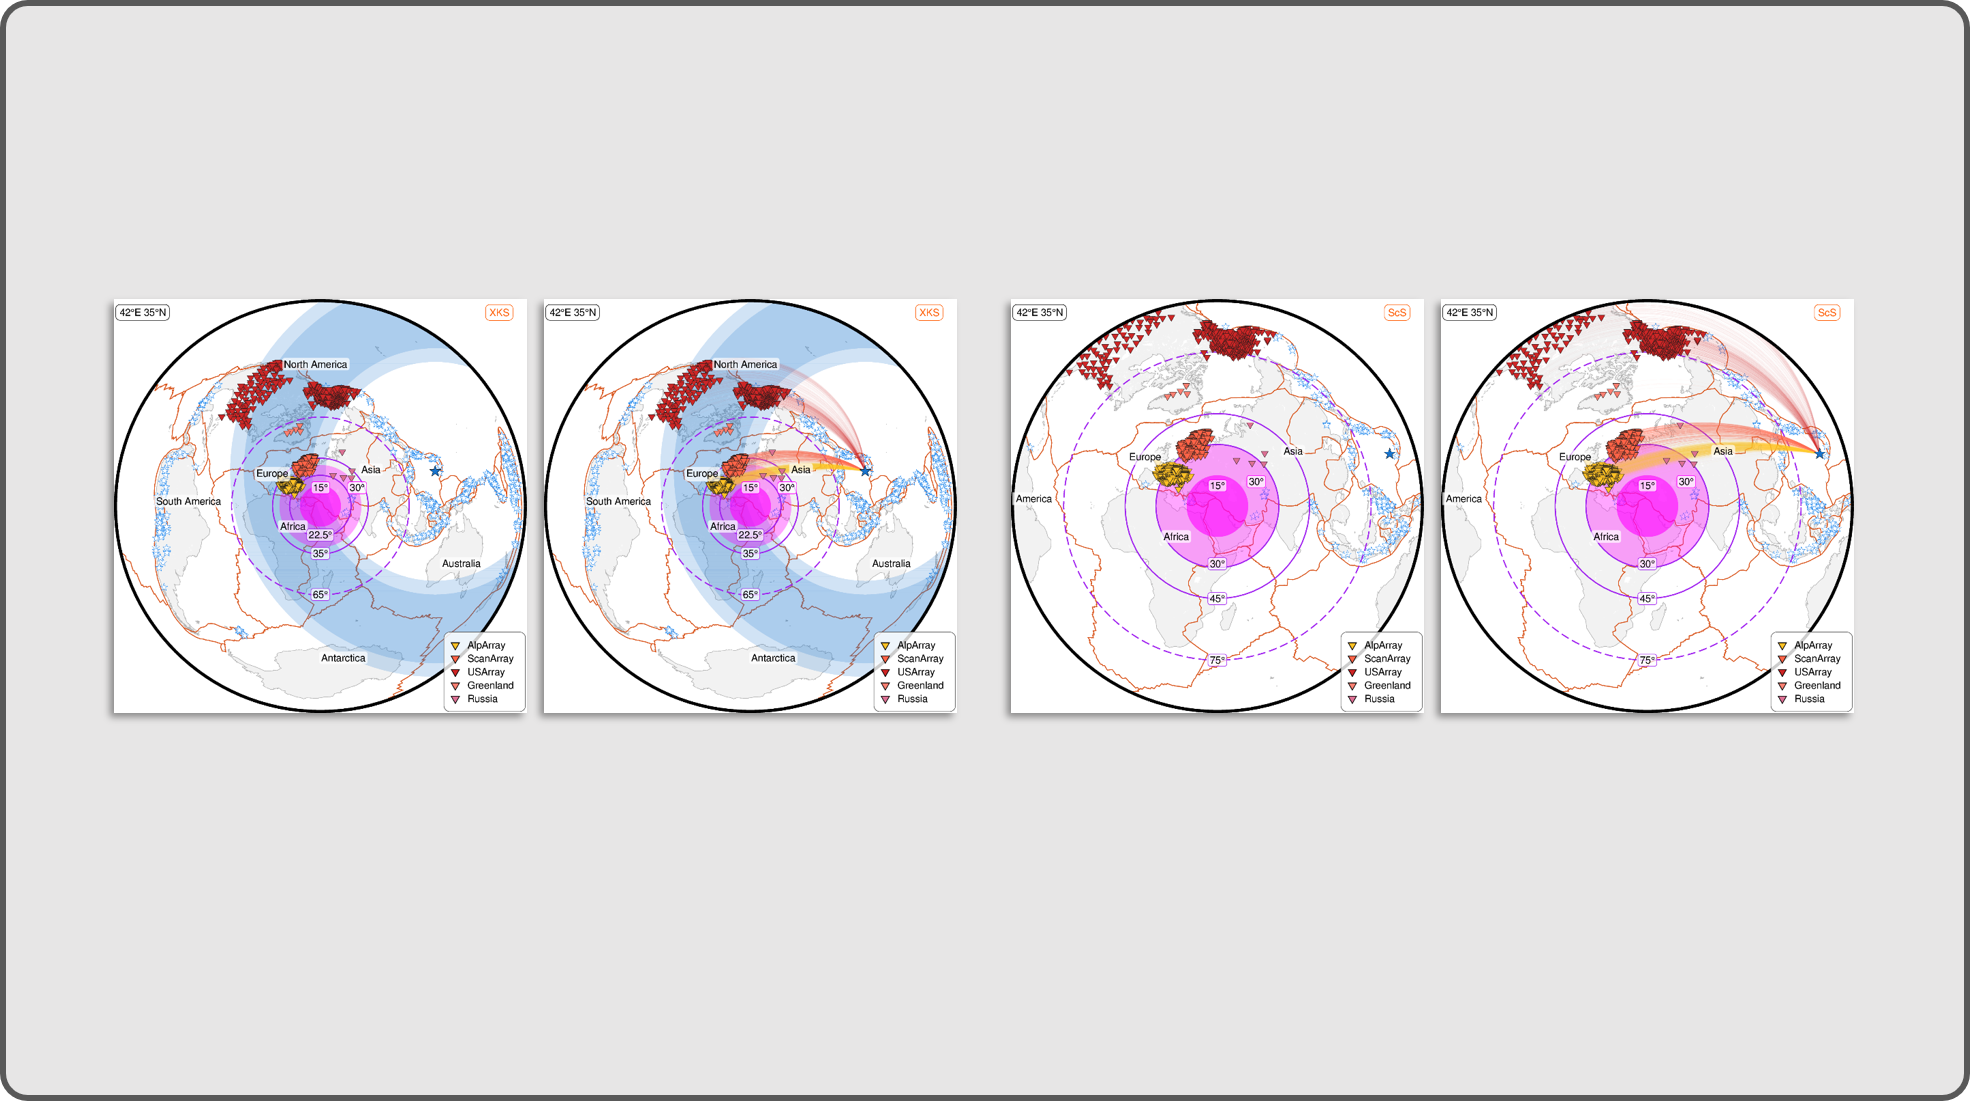
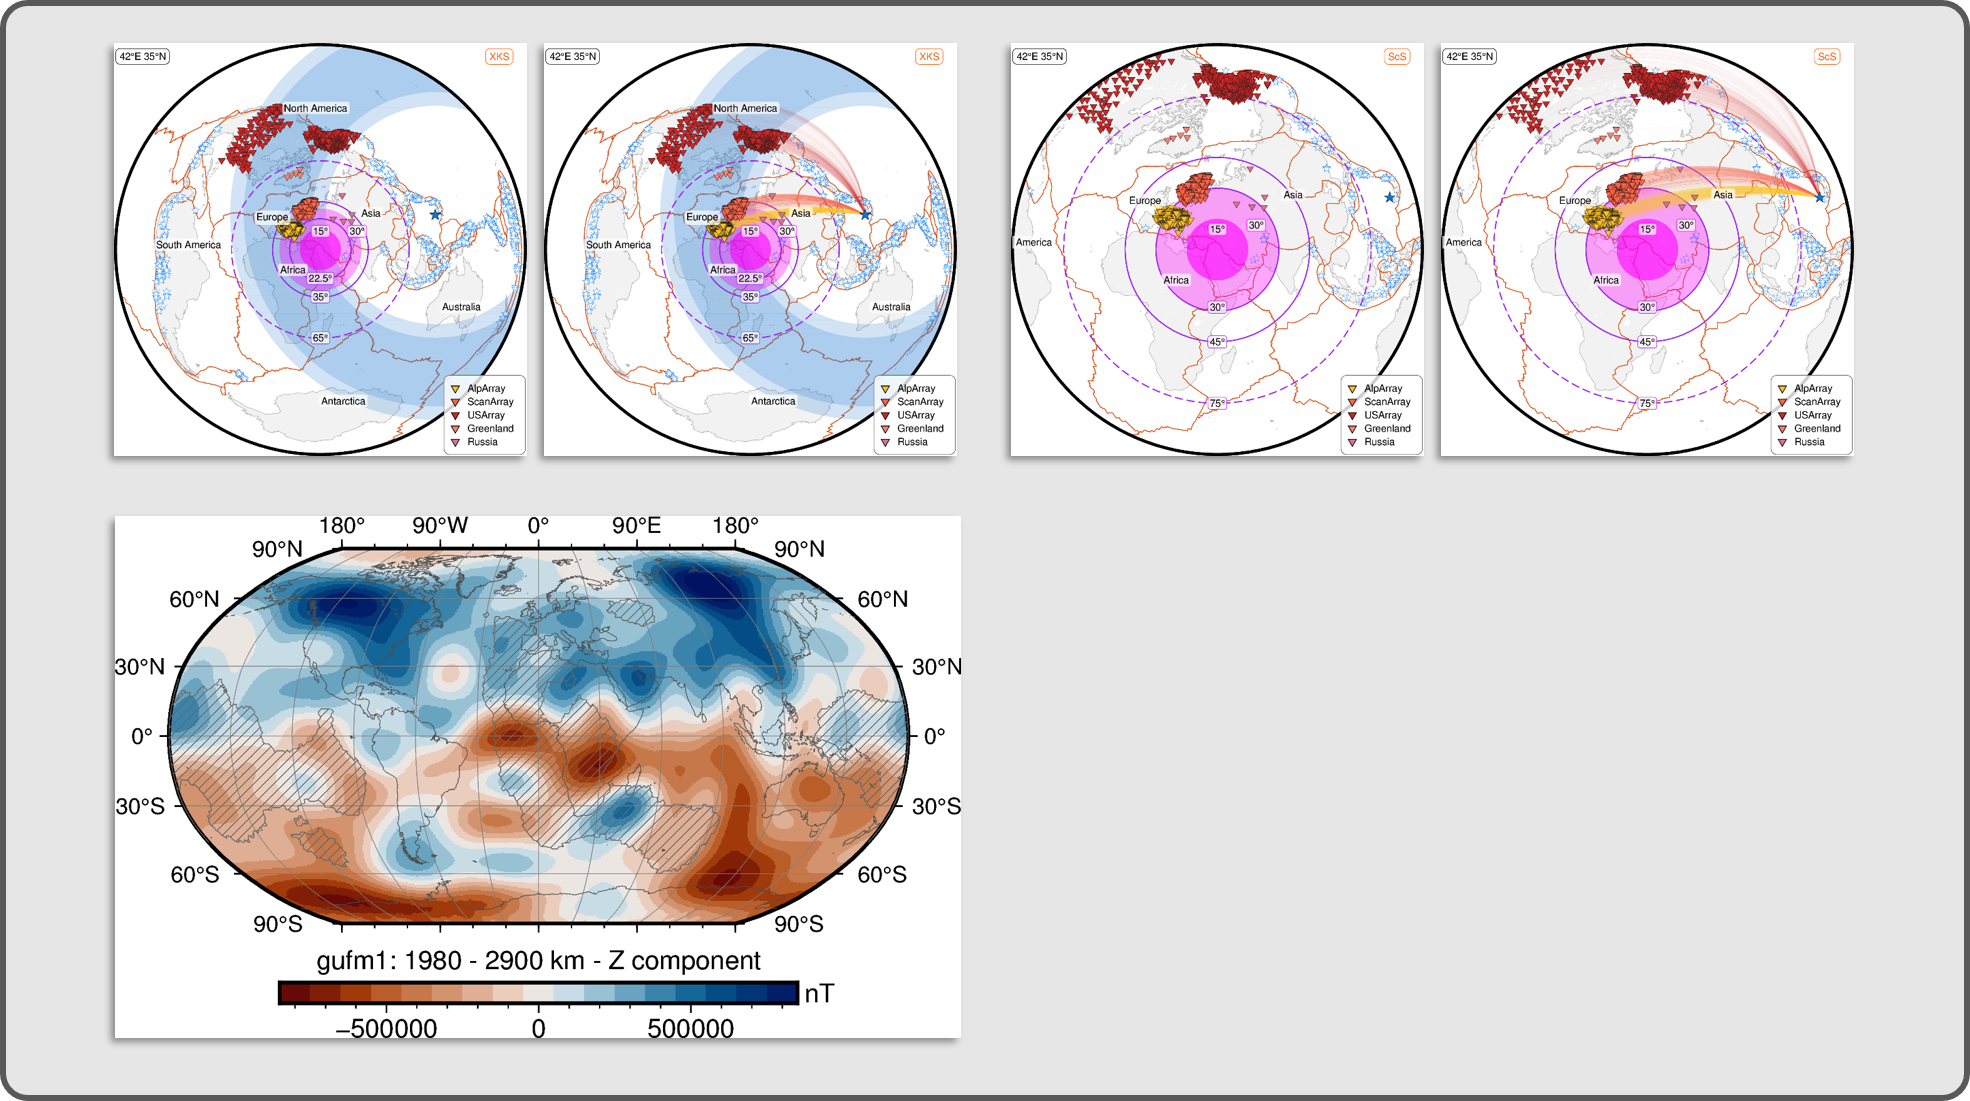
Adjust folder structure

diff --git a/README.md b/README.md
@@ -13,13 +13,13 @@ _Please note_: Scripts or notebooks are available up on acceptance of the relate
 | --- | --- | --- | --- |
 | **[000_general_stuff](https://github.com/yvonnefroehlich/gmt-pygmt-plotting/tree/main/000_general_stuff)** | <img src="https://github.com/yvonnefroehlich/gmt-pygmt-plotting/raw/main/_images/github_maps_readme_000stuff.png" width="250"> | Custom symbols, colorwheel, colorbar font scaling, Earth section | - |
 | **[001_paper_RFSG_2022](https://github.com/yvonnefroehlich/gmt-pygmt-plotting/tree/main/001_paper_RFSG_2022)** | <img src="https://github.com/yvonnefroehlich/gmt-pygmt-plotting/raw/main/_images/github_maps_readme_001bfo.png" width="250"> | Maps related to anisotropy and SWS underneath the BFO | [**_Ritter et al. (2022)_**](https://doi.org/10.1007/s10950-022-10112-w) |
-| **[002_paper_FGR_2024](https://github.com/yvonnefroehlich/gmt-pygmt-plotting/tree/main/002_paper_FGR_2024)** | _Up coming_ | Maps related to anisotropy and SWS underneath the URG area | [**_Fröhlich et al. (2024)_**](https://doi.org/10.1093/gji/ggae245) |
+| **[002_paper_FGR_2024](https://github.com/yvonnefroehlich/gmt-pygmt-plotting/tree/main/002_paper_FGR_2024)** | <img src="https://github.com/yvonnefroehlich/gmt-pygmt-plotting/raw/main/_images/github_maps_readme_002urg.png" width="250"> | _Up coming_ | [**_Fröhlich et al. (2024)_**](https://doi.org/10.1093/gji/ggae245) |
 | **[003_taup](https://github.com/yvonnefroehlich/gmt-pygmt-plotting/tree/main/003_taup)** | <img src="https://github.com/yvonnefroehlich/gmt-pygmt-plotting/raw/main/_images/github_maps_readme_003taup.png" width="250"> | Travel paths and travel time curves of seismological phases | [**_Fröhlich et al. (2024)_**](https://doi.org/10.1093/gji/ggae245) |
 | **[004_earthquakes_eruptions](https://github.com/yvonnefroehlich/gmt-pygmt-plotting/tree/main/004_earthquakes_eruptions)** | <img src="https://github.com/yvonnefroehlich/gmt-pygmt-plotting/raw/main/_images/github_maps_readme_004events.png" width="250"> | Maps of selected earthquakes and eruptions between 2021 and present | - |
 | **[005_global_seismicity](https://github.com/yvonnefroehlich/gmt-pygmt-plotting/tree/main/005_global_seismicity)** | <img src="https://github.com/yvonnefroehlich/gmt-pygmt-plotting/raw/main/_images/github_maps_readme_005seismicity.png" width="250"> | Analysis regarding global seismicity (maps, histograms, etc.) | - |
 | **[006_tomographies_databases](https://github.com/yvonnefroehlich/gmt-pygmt-plotting/tree/main/006_tomographies_databases)** | <img src="https://github.com/yvonnefroehlich/gmt-pygmt-plotting/raw/main/_images/github_maps_readme_006tomos.png" width="250"> | `shear wave splitting`, `deep anisotropy`, `votemap analysis`, `cluster analysis`, `GyPSuM` | [DGG DeepDyn poster](https://doi.org/10.5281/zenodo.10927349), [SEDI DeepDyn poster](https://doi.org/10.5281/zenodo.12658821) |
-| **[007_magnetic_field](https://github.com/yvonnefroehlich/gmt-pygmt-plotting/tree/main/007_magnetic_field)** | <img src="https://github.com/yvonnefroehlich/gmt-pygmt-plotting/raw/main/_images/github_maps_readme_007magnetic.png" width="250"> | `gufm1` | [DGG DeepDyn poster](https://doi.org/10.5281/zenodo.10927349) |
-| **[008_XXX_XXX]()** | _Up coming_ |  |  |
+| **[007_dissertation_F_2025](https://github.com/yvonnefroehlich/gmt-pygmt-plotting/tree/main/007_dissertation_F_2025)** | <img src="https://github.com/yvonnefroehlich/gmt-pygmt-plotting/raw/main/_images/github_maps_readme_007dissertation.png" width="250"> | _Up coming_ |  |
+| **[008_urg_vs_norsa](https://github.com/yvonnefroehlich/gmt-pygmt-plotting/tree/main/008_urg_vs_norsa)** | <img src="https://github.com/yvonnefroehlich/gmt-pygmt-plotting/raw/main/_images/github_maps_readme_008norsa.png" width="250"> | _Up coming_ |  |
 | **[009_deepdyn](https://github.com/yvonnefroehlich/gmt-pygmt-plotting/tree/main/009_deepdyn)** | <img src="https://github.com/yvonnefroehlich/gmt-pygmt-plotting/raw/main/_images/github_maps_readme_009deepdyn.png" width="250"> | Maps related to the DeepDyn project | [SEDI DeepDyn poster](https://doi.org/10.5281/zenodo.12658821) |
 | **[010_axisem](https://github.com/yvonnefroehlich/gmt-pygmt-plotting/tree/main/010_axisem)** | <img src="https://github.com/yvonnefroehlich/gmt-pygmt-plotting/raw/main/_images/github_maps_readme_010axisem.png" width="250"> | Maps and visualizations related to AxiSEM3D | [AGU URG talk](https://dx.doi.org/10.5281/zenodo.14510993) |
 | **[011_agu_FTLJG_2024](https://github.com/yvonnefroehlich/gmt-pygmt-plotting/tree/main/011_agu_FTLJG_2024)** | <img src="https://github.com/yvonnefroehlich/gmt-pygmt-plotting/raw/main/_images/github_maps_readme_011pygmt.png" width="250"> | Plots related to PyGMT = GMT + Python & Scientific Python Ecosystem | [AGU PyGMT talk](https://doi.org/10.6084/m9.figshare.28049495) |

diff --git a/007_dissertation_F_2025/README.md b/007_dissertation_F_2025/README.md
@@ -1,0 +1,12 @@
+# 007_dissertation_F_2025
+
+## Content
+
+_Recommended versions_: PyGMT v0.16.0, GMT 6.5.0
+
+- **[01_](https://github.com/yvonnefroehlich/GMT_PyGMT_plotting/tree/main/007_PhD_F/01_)**
+- **[02_](https://github.com/yvonnefroehlich/GMT_PyGMT_plotting/tree/main/007_PhD_F/02_)**
+- **[03_](https://github.com/yvonnefroehlich/GMT_PyGMT_plotting/tree/main/007_PhD_F/03_)**
+- **[04_](https://github.com/yvonnefroehlich/GMT_PyGMT_plotting/tree/main/007_PhD_F/04_)**
+
+![](https://github.com/yvonnefroehlich/gmt-pygmt-plotting/raw/main/_images/github_maps_readme_007phd.png)

diff --git a/009_deepdyn/README.md b/009_deepdyn/README.md
@@ -5,5 +5,6 @@
 _Recommended versions_: PyGMT v0.13.0, GMT 6.5.0
 
 - **[01_epidistance_lmm](https://github.com/yvonnefroehlich/GMT_PyGMT_plotting/tree/main/009_deepdyn/01_epidistance_lmm)**
+- **[02_gufm1](https://github.com/yvonnefroehlich/GMT_PyGMT_plotting/tree/main/009_deepdyn/02_gufm1)**: `gufm1` by [Jackson et al. 2000](https://www.jstor.org/stable/2666741)
 
 ![](https://github.com/yvonnefroehlich/gmt-pygmt-plotting/raw/main/_images/github_maps_readme_009deepdyn.png)

diff --git a/008_urg_vs_norsa/README.md b/008_urg_vs_norsa/README.md
@@ -1,0 +1,9 @@
+# 008_urg_vs_norsa
+
+## Content
+
+_Recommended versions_: PyGMT v0.16.0, GMT 6.5.0
+
+- **[01_](https://github.com/yvonnefroehlich/GMT_PyGMT_plotting/tree/main/008_urg_vs_norsa/01_)**:
+
+![](https://github.com/yvonnefroehlich/gmt-pygmt-plotting/raw/main/_images/github_maps_readme_008norsa.png)
